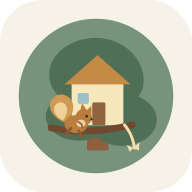
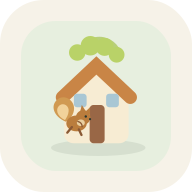
Add files via upload

diff --git a/index.html b/index.html
@@ -81,19 +81,29 @@ dialog{border:0;border-radius:21px;padding:0;width:min(680px,calc(100% - 20px));
 @media(max-width:480px){.calendar-day{min-height:67px;border-radius:10px}.calendar-day-meta{gap:3px}.calendar-count{display:none}.calendar-toolbar{align-items:flex-start}.calendar-toolbar input[type="month"]{max-width:150px}.bottom-nav{gap:3px}.nav-btn{padding-left:1px;padding-right:1px;font-size:10px}.nav-btn span{font-size:18px}}
 
 
-/* v1.7：树屋 Logo 与餐厅探店记录 */
-.brand-wrap{display:flex;align-items:center;gap:14px}.brand-logo{width:78px;height:78px;border-radius:24px;filter:drop-shadow(0 10px 16px #31453622);flex:0 0 auto}.brand-copy{min-width:0}
+/* v1.7.1：主界面恢复 emoji 风格，Logo 调整为房子前的小松鼠 */
+.hero-shell{padding:18px;border-radius:28px;background:linear-gradient(135deg,rgba(223,232,217,.96),rgba(239,243,234,.96));border:1px solid #e2e8de;margin-bottom:16px}
+.hero-header{display:flex;align-items:flex-start;justify-content:space-between;gap:18px;margin:0}
+.hero-header .brand{flex:1;min-width:0}
+.hero-header .brand h1{font-size:clamp(31px,6vw,50px)}
+.hero-header .brand p{max-width:680px}
+.mascot-stack{display:flex;flex-direction:column;align-items:center;justify-content:center;gap:4px;flex:0 0 auto;line-height:1;filter:drop-shadow(0 8px 12px #0001)}
+.mascot-stack span{display:block;font-size:56px}
+.mascot-stack span:last-child{font-size:52px}
+.hero-actions{padding:13px;border-radius:20px;background:rgba(255,255,255,.82);border:1px solid rgba(255,255,255,.92);box-shadow:none;backdrop-filter:none;margin-bottom:0}
+.hero-actions .left,.hero-actions .right{gap:10px}
+.hero-actions .status-pill{background:#e3eadf;color:#4f6754}
 .restaurant-list{display:grid;gap:13px}.restaurant-card{border:1px solid var(--line);border-radius:19px;background:#fff9;padding:15px;display:grid;gap:12px}.restaurant-head{display:flex;align-items:flex-start;justify-content:space-between;gap:12px}.restaurant-title{font-size:18px;font-weight:880;line-height:1.35}.restaurant-price{font-size:19px;font-weight:900;color:var(--sage2);white-space:nowrap}.restaurant-meta,.restaurant-tags{display:flex;gap:7px;flex-wrap:wrap;align-items:center;color:var(--muted);font-size:12px}.restaurant-tags .tag{background:#edf2eb;color:#526b56}.restaurant-stars{letter-spacing:2px;color:#c28a3e;font-size:16px;white-space:nowrap}.restaurant-copy{font-size:13px;line-height:1.65}.restaurant-copy strong{color:var(--sage2)}.restaurant-notes{display:grid;grid-template-columns:1fr 1fr;gap:9px}.restaurant-note-box{padding:10px 11px;border-radius:13px;background:#f7f5ee;font-size:13px;line-height:1.55}.restaurant-note-box.recommend{background:#eaf2e8}.restaurant-note-box.avoid{background:#f8e9e6}.restaurant-gallery{display:grid;grid-template-columns:repeat(4,1fr);gap:7px}.restaurant-gallery img{width:100%;aspect-ratio:1.18/1;object-fit:cover;border-radius:12px;border:1px solid var(--line);background:#eee}.restaurant-linked{display:inline-flex;align-items:center;gap:6px;padding:6px 9px;border-radius:999px;background:#eaf2e8;color:#4c6c52;font-size:12px;font-weight:800}.restaurant-actions{display:flex;gap:7px;flex-wrap:wrap;justify-content:flex-end}.star-picker{display:flex;gap:5px;align-items:center}.star-btn{border:0;background:transparent;padding:2px;cursor:pointer;font-size:29px;color:#d7d7cf;line-height:1}.star-btn.active{color:#c28a3e}.photo-preview{display:grid;grid-template-columns:repeat(4,1fr);gap:8px;margin-top:8px}.photo-preview-item{position:relative}.photo-preview img{width:100%;aspect-ratio:1/1;object-fit:cover;border-radius:12px;border:1px solid var(--line)}.photo-remove{position:absolute;right:4px;top:4px;width:25px;height:25px;border:0;border-radius:50%;background:#2d352dcc;color:#fff;font-weight:900;cursor:pointer}.field-help{font-size:12px;color:var(--muted);line-height:1.5;margin-top:5px}.inline-field{display:flex;gap:8px;align-items:stretch}.inline-field select{min-width:0;flex:1}.inline-field .btn{white-space:nowrap;padding-left:11px;padding-right:11px}
 @media(max-width:920px){.restaurant-gallery{grid-template-columns:repeat(3,1fr)}}
-@media(max-width:580px){header{align-items:center}.brand-logo{width:64px;height:64px;border-radius:20px}.brand h1{font-size:29px}.brand p{font-size:13px;margin-top:6px}.restaurant-head{align-items:flex-start}.restaurant-price{font-size:17px}.restaurant-notes{grid-template-columns:1fr}.restaurant-gallery,.photo-preview{grid-template-columns:repeat(2,1fr)}.restaurant-actions .icon-btn{flex:1}.bottom-nav{grid-template-columns:repeat(8,1fr)}.nav-btn{font-size:9px}.nav-btn span{font-size:17px}}
+@media(max-width:580px){.hero-shell{padding:14px}.hero-header{align-items:flex-start}.hero-header .brand h1{font-size:29px}.hero-header .brand p{font-size:13px;margin-top:6px}.mascot-stack span{font-size:46px}.mascot-stack span:last-child{font-size:42px}.hero-actions .left,.hero-actions .right{width:100%}.hero-actions .right .btn{flex:1}.restaurant-head{align-items:flex-start}.restaurant-price{font-size:17px}.restaurant-notes{grid-template-columns:1fr}.restaurant-gallery,.photo-preview{grid-template-columns:repeat(2,1fr)}.restaurant-actions .icon-btn{flex:1}.bottom-nav{grid-template-columns:repeat(8,1fr)}.nav-btn{font-size:9px}.nav-btn span{font-size:17px}}
 
 </style>
 </head>
 <body>
 <main class="app">
-<header><div class="brand brand-wrap"><img class="brand-logo" src="./logo-mark.svg" alt="小松鼠与树屋 Logo"><div class="brand-copy"><h1>小松鼠生活管家</h1><p>记账、餐厅打卡、家务、日历和小愿望，都住在同一棵安全的树屋里。</p></div></div></header>
+<section class="hero-shell panel"><header class="hero-header"><div class="brand"><h1>小松鼠生活管家</h1><p>家务、记账、探店和未来的植物、冰箱、习惯模块，都住在同一个安全数据仓里。</p></div><div class="mascot-stack" aria-hidden="true"><span>🐿</span><span>🏡</span></div></header>
 <div id="fileBanner" class="banner hidden"><strong>当前是本地文件模式。</strong> 可以立即使用，但手机浏览器对 <code>file:</code> 页面的本地存储行为并不稳定。已开启“每日首次修改自动下载备份”；长期使用请部署 PWA 版本到 HTTPS 地址。</div>
-<section class="panel top-actions"><div class="left"><span class="status-pill" id="backupBadge">正在检查数据安全…</span><button class="btn primary" id="quickLedgerBtn">＋ 记一笔</button><button class="btn soft" id="quickChoreBtn">＋ 加家务</button><button class="btn soft" id="quickWishBtn">＋ 加愿望</button><button class="btn soft" id="quickRestaurantBtn">＋ 餐厅打卡</button></div><div class="right"><button class="btn soft" id="backupNowBtn">立即备份</button><button class="btn ghost hidden" id="installBtn">安装到桌面</button></div></section>
+<section class="top-actions hero-actions"><div class="left"><span class="status-pill" id="backupBadge">正在检查数据安全…</span><button class="btn primary" id="quickLedgerBtn">＋ 记一笔</button><button class="btn soft" id="quickChoreBtn">＋ 加家务</button><button class="btn soft" id="quickWishBtn">＋ 加愿望</button><button class="btn soft" id="quickRestaurantBtn">＋ 餐厅打卡</button></div><div class="right"><button class="btn soft" id="backupNowBtn">立即备份</button><button class="btn ghost hidden" id="installBtn">安装到桌面</button></div></section></section>
 
 <section class="view active" id="view-home">
   <div class="grid kpi" id="homeKpis"></div>

diff --git a/sw.js b/sw.js
@@ -1,4 +1,4 @@
-const CACHE='squirrel-life-v1-7-treehouse-restaurants';
+const CACHE='squirrel-life-v1-7-1-emoji-home';
 const ASSETS=['./','./index.html','./manifest.webmanifest','./icon-192.png','./icon-512.png','./logo-mark.svg'];
 self.addEventListener('install',e=>e.waitUntil(caches.open(CACHE).then(c=>c.addAll(ASSETS)).then(()=>self.skipWaiting())));
 self.addEventListener('activate',e=>e.waitUntil(caches.keys().then(keys=>Promise.all(keys.filter(k=>k!==CACHE).map(k=>caches.delete(k)))).then(()=>self.clients.claim())));

diff --git a/README.md b/README.md
@@ -1,4 +1,4 @@
-# 小松鼠生活管家 v1.7
+# 小松鼠生活管家 v1.7.1
 
 本次新增：
 
